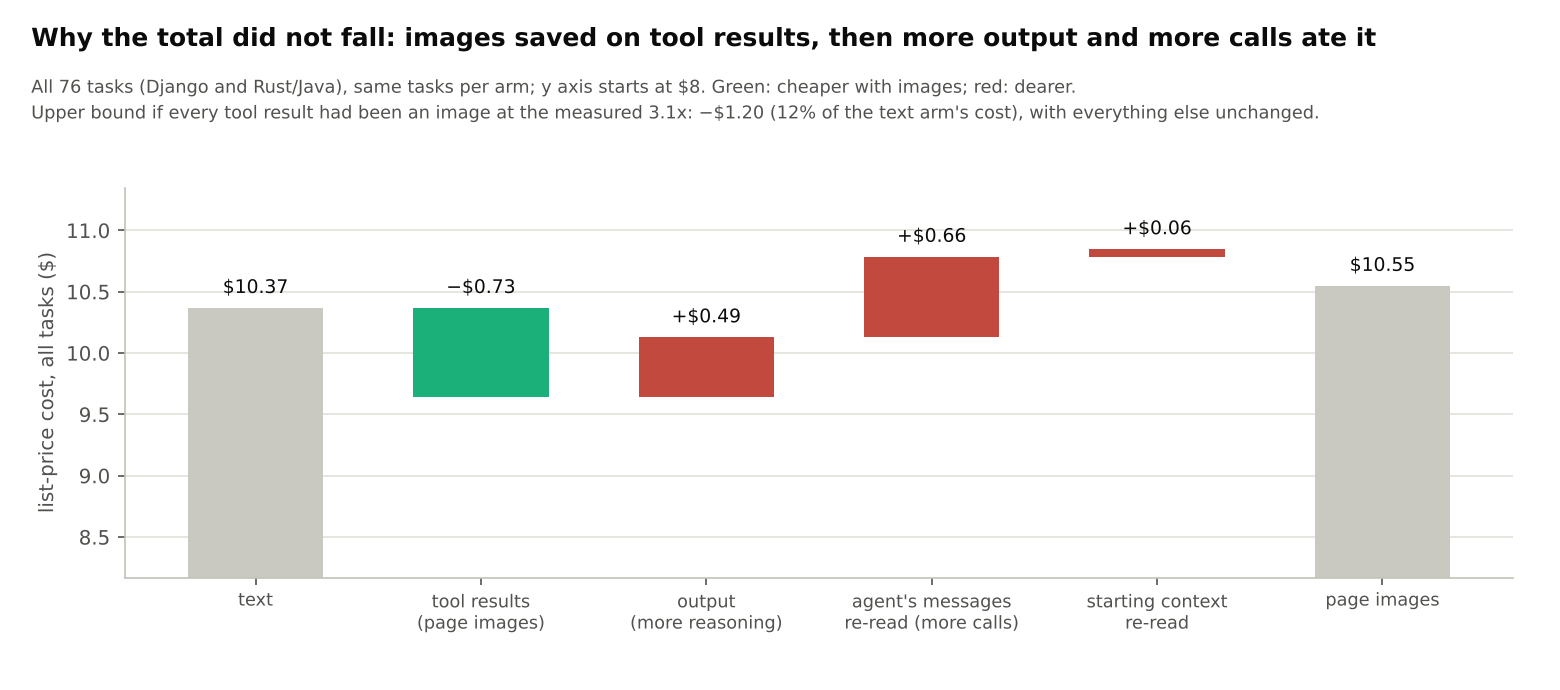
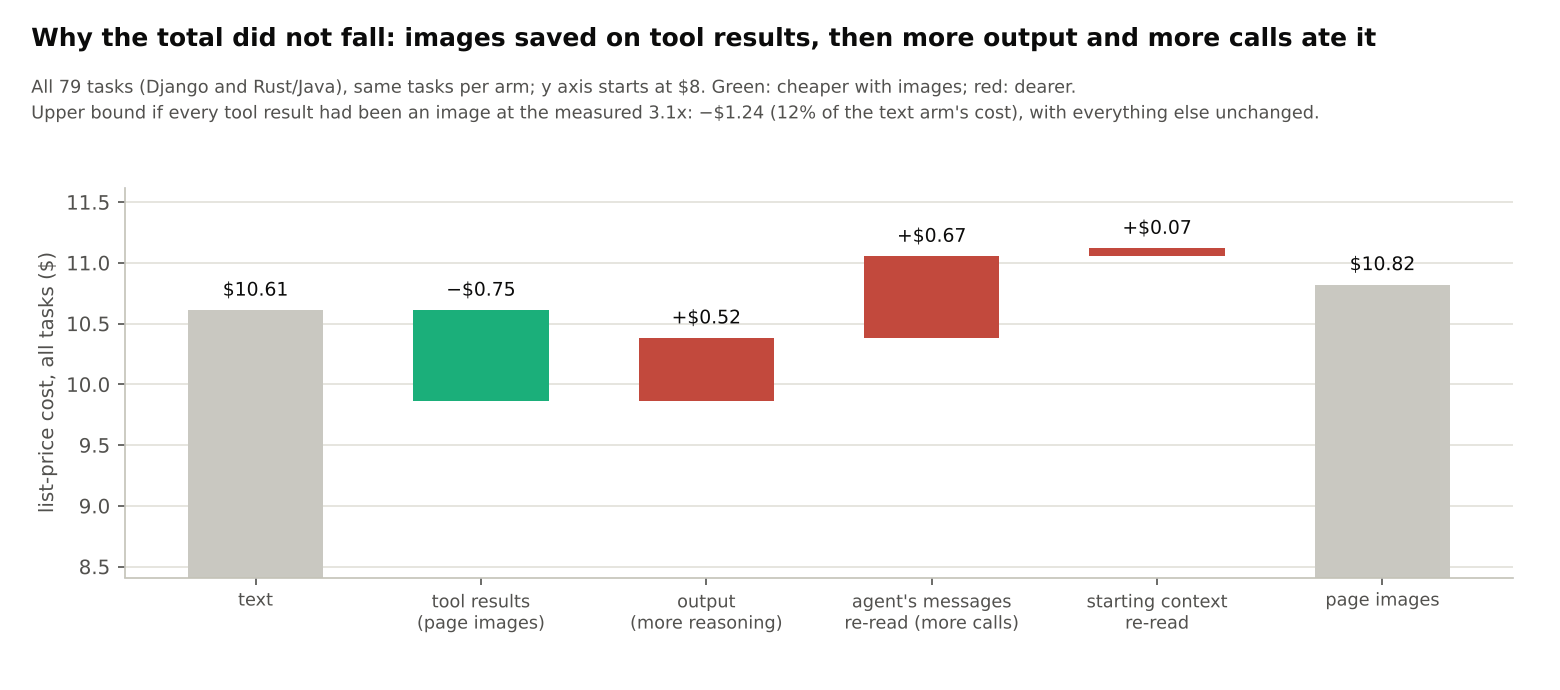
SWE-bench Rust/Java final: 29 valid tasks, text 28/29, images 29/29 (p = 1), $4.83 vs $4.75, no failed edits; write-up and figures updated with all 79 tasks (images 3.1x cheaper than the text they replaced; total $10.82 vs $10.61; tool results ~17% of cost, upper bound on saving 12%)
Claude-Session: https://claude.ai/code/session_01WVzSJ934fYhDkwG8gwoyMQ

diff --git a/docs/SWE_IMAGES.md b/docs/SWE_IMAGES.md
@@ -9,11 +9,11 @@ output as text, once through the vbhook hooks, which show file contents and long
 
 ## The answer
 
-* **Images cost no tasks.** Django: 50/50 resolved with text and 50/50 with images. Rust and Java: 26/26 and 26/26 so
-  far (ruff still running). Every task was one recent Opus models solve, so this rules out a large accuracy loss, not
-  a small one.
-* **Images were 3.1x cheaper than the text they replaced** (85k image tokens for 265k tokens of text).
-* **But the total did not fall: $10.55 with images against $10.37 with text** over the 76 finished tasks. The reason is
+* **Images cost no tasks.** Django: 50/50 resolved with text and 50/50 with images. Rust and Java: 28/29 with text and
+  29/29 with images (the one difference, a ruff task the text arm missed, is not significant: p = 1). Every task was
+  one recent Opus models solve, so this rules out a large accuracy loss, not a small one.
+* **Images were 3.1x cheaper than the text they replaced** (88k image tokens for 275k tokens of text).
+* **But the total did not fall: $10.82 with images against $10.61 with text** over all 79 tasks. The reason is
   the one you suspected: **coding is not dominated by reading.** File contents and command output are about 17% of
   what the agent costs; even if all of it were 3.1x cheaper, the run would cost at most 12% less. The image arm then
   spent that saving on more output and more calls.
@@ -27,7 +27,7 @@ is the only slice page images can shrink.
 
 Every API call in an agent run re-sends the whole conversation. New content is paid once as a cache write ($5 per
 million tokens) and then on every later call as a cache read ($0.20 per million, 0.05x the input price); output costs
-$20 per million (prices fitted exactly from the CLI's own cost, 100 runs). Across the 76 text-arm runs:
+$20 per million (prices fitted exactly from the CLI's own cost, 100 runs). Across the 79 text-arm runs:
 
 | slice | share of cost | what it is |
 |---|---|---|
@@ -52,12 +52,13 @@ Three things keep the tool-result slice small:
 *How to read it:* the grey bars are the two arms' total cost over the same tasks; the steps between them are the
 change in each slice. The y axis does not start at zero.
 
-* **Tool results: −$0.73.** The images did what they should.
-* **Output: +$0.49** (263k output tokens against 239k, +10%). The model reasons a little more when it reads images,
+* **Tool results: −$0.75.** The images did what they should.
+* **Output: +$0.52** (270k output tokens against 244k, +11%). The model reasons a little more when it reads images,
   and it re-checks exact text before editing: Claude Code requires an Edit's `old_string` to match the file exactly,
   so the agent sometimes prints lines again (e.g. `sed -n ... | cat -A`) before it edits.
-* **Re-read context: +$0.72.** More calls (median 7 against 6), each re-sending the conversation, plus the hooks'
-  short format notes.
+* **Re-read context: +$0.74.** More calls (median 7 against 6; Rust and Java 11 against 8), each re-sending the
+  conversation, plus the hooks' short format notes. In Rust and Java the image arm also made twice as many edit calls
+  (37 against 18), none of which failed.
 
 ## Where page images do pay off
 
@@ -77,7 +78,7 @@ were lossless (99.7% against 99.4% from text, 360 questions). For coding agents 
 
 * **Tasks:** SWE-bench Verified Django tasks that both newest Opus leaderboard submissions solved (hardest first, 50
   of 56 valid), and SWE-bench Multilingual Rust and Java tasks both Opus submissions solved (47 selected; valid here:
-  ripgrep 2, bat 5, axum 3, tokio 8, coreutils 2, ruff 4, Lucene 4, Druid 1). Choosing solvable tasks isolates the
+  ripgrep 2, bat 5, axum 3, tokio 8, coreutils 2, ruff 4, Lucene 4, Druid 1: 29 tasks). Choosing solvable tasks isolates the
   effect of images on reading, but leaves no room to see a small loss.
 * **No Docker:** each task was graded with its own test command in a local environment. The gold patch had to pass
   and the unpatched code to fail; tests that fail even with the gold patch here were left out for both arms. Some

diff --git a/results/readhook_swe_ml/README.md b/results/readhook_swe_ml/README.md
@@ -23,3 +23,32 @@ Predictions (same as Django):
 3. The content the vbhook arm saw as images cost at least 2x fewer tokens than as text.
 4. Reported: total input tokens and cost by arm, turns, wall time, failure causes for every discordant task; and
    whether multi-line Edits in brace languages fail more often with images (the `»`-level fix is new).
+
+## Results (2026-11-11): 29 valid tasks x 2 arms, $9.58 at list price
+
+Valid here: ripgrep 2, bat 5, axum 3, tokio 8, coreutils 2, ruff 4 (Rust); Lucene 4, Druid 1 (Java). Dropped by
+validation: gson 4 and javaparser 2 (do not build or pass with JDK 21), RxJava 1 and Lucene 1 (Gradle under JDK 21),
+Druid 2, nushell 5 (gold patches fail here), bat 1, axum 1 (test code does not compile with Rust 1.97), ruff 1.
+
+| | text | vbhook (pages at 88.2) |
+|---|---|---|
+| resolved | 28/29 | 29/29 |
+| list-price cost | $4.83 | $4.75 |
+| median turns / wall time | 8 / 120 s | 11 / 119 s |
+| Edit/Write calls (failed) | 18 (0) | 37 (0) |
+| content seen as images | - | 48,162 tokens vs 151,633 as text (3.15x) |
+
+Pre-registered verdicts:
+1. text resolves >= 80%: **PASS** (97%).
+2. vbhook within 10 points of text: **PASS** (+3.4 points; one discordant task, astral-sh__ruff-15443, resolved only
+   with images; exact McNemar p = 1).
+3. images >= 2x fewer tokens than the same content as text: **PASS** (3.15x).
+4. Reported: cost $4.75 vs $4.83; no failed Edit or Write in either arm (the `»` indentation levels for brace languages
+   worked), though the image arm made twice as many edit calls and more turns. Cost anatomy and why totals do not fall:
+   `docs/SWE_IMAGES.md`.
+
+Incidents, all fixed during the run and applying to both arms: an agent's `grep -r` and an orphaned `target/debug/bat`
+from bat's own tests hung `cargo test | grep` pipelines (harness now gives agents an empty stdin; `watchdog.sh` stops
+programs from the build dirs after 3 minutes, test binaries after 15); ruff's build filled the disk (runs restarted
+after the user cleared caches; no finished row was lost); Gradle needed per-test logging for the task parser
+(`~/.gradle/init.d/swebench-test-logging.gradle`).
